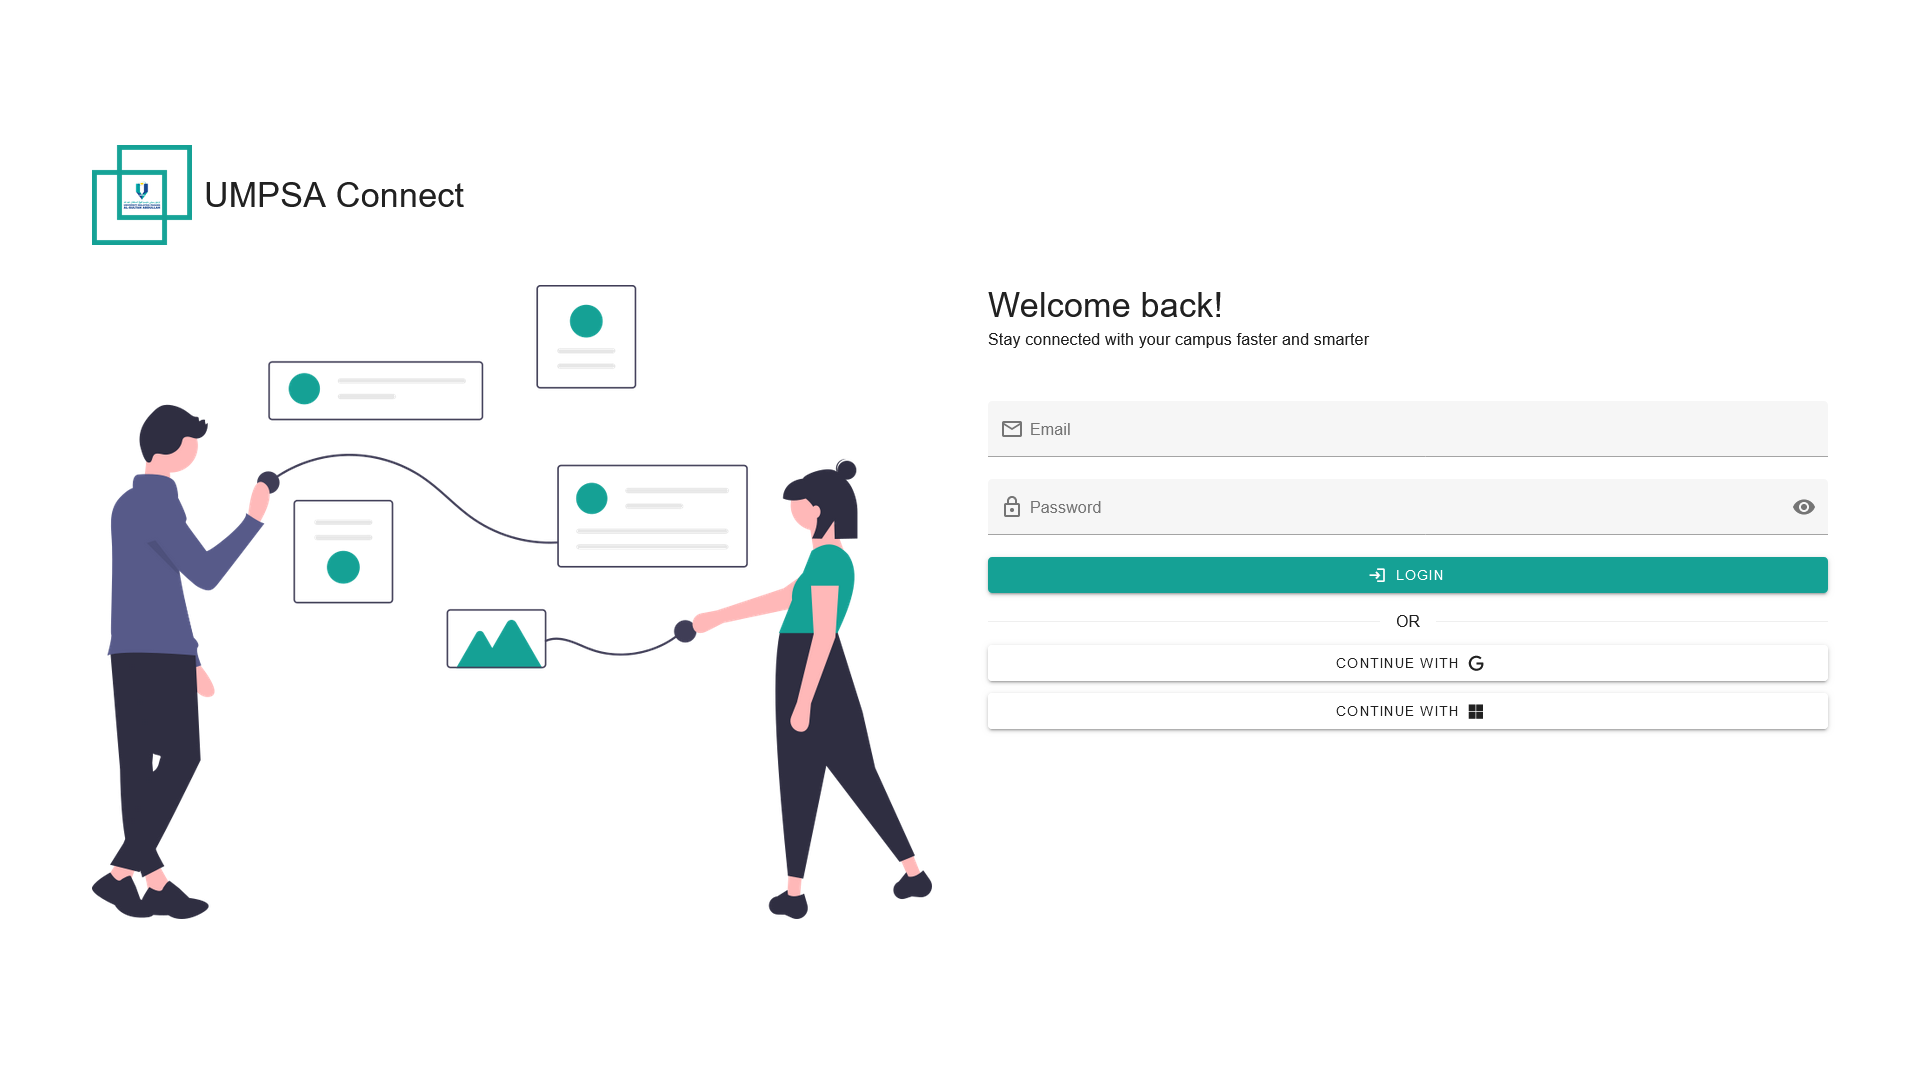
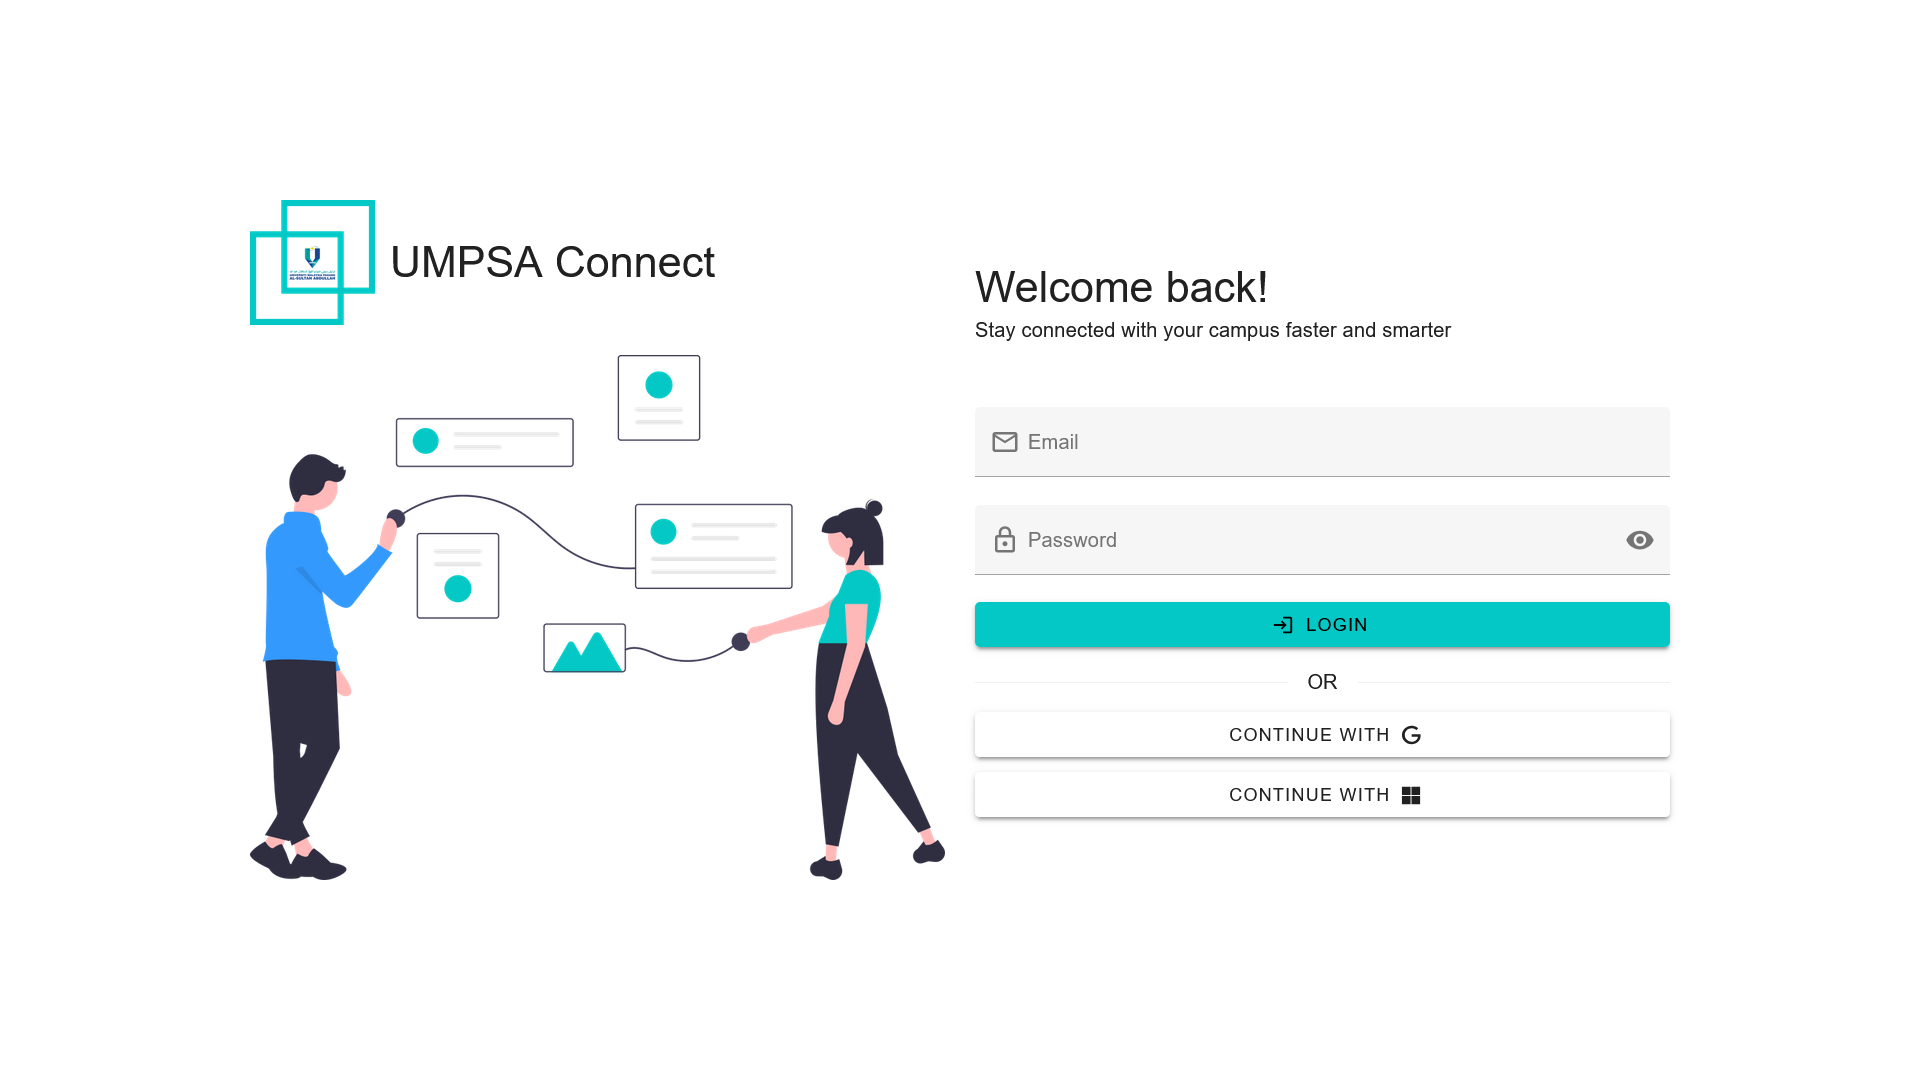
update theme colors

diff --git a/nuxt.config.ts b/nuxt.config.ts
@@ -25,12 +25,12 @@ export default defineNuxtConfig({
 				themes: {
 					myCustomTheme: {
 						colors: {
-							primary: '#009FA0',
-							secondary: '#1A478F',
-							error: '#F44336',
-							success: '#4CAF50',
-							info: '#2196F3',
-							warning: '#FFEB3B'
+							primary: '#04c8c5',
+							secondary: '#3499fd',
+							error: '#f44336',
+							info: '#0897ef',
+							success: '#4caf50',
+							warning: '#ff9800',
 						}
 					}
 				}

diff --git a/pages/index.vue b/pages/index.vue
@@ -29,6 +29,7 @@ onUnmounted(async () => {
 			</VCol>
 		</template>
 		<VCol cols="12" lg="7" v-for="post in posts" :key="post.id" v-auto-animate>
+		<VBtn color="info" />
 			<PostCard :post="post" />
 		</VCol>
 	</VRow>
